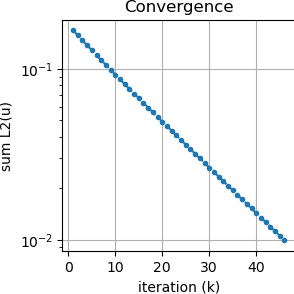
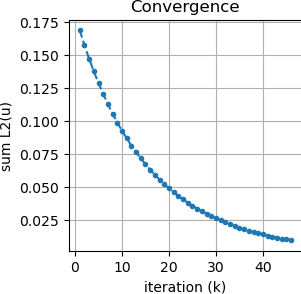
update small mesh smoothing example

diff --git a/geo/examples/mesh_smoothing.py b/geo/examples/mesh_smoothing.py
@@ -143,7 +143,6 @@ fig = plt.figure(figsize=(3.0, 3.0), dpi=100)
 ax = fig.gca()
 
 plt.plot(iteration_hx, L2_hx, ".--")
-plt.yscale("log")
 plt.grid(True)
 ax.set_xlabel("iteration (k)")
 ax.set_ylabel("sum L2(u)")
@@ -151,6 +150,19 @@ ax.set_title("Convergence")
 
 if mesh_dict["serialize"]:
     filename = script_name + "_convergence" + ".png"
+    pathfilename = Path.cwd().joinpath(filename)
+    fig.savefig(pathfilename, bbox_inches="tight", pad_inches=0)
+    print(f"Serialized to {pathfilename}")
+
+plt.plot(iteration_hx, L2_hx, ".--")
+plt.yscale("log")
+plt.grid(True)
+ax.set_xlabel("iteration (k)")
+ax.set_ylabel("sum L2(u)")
+ax.set_title("Convergence")
+
+if mesh_dict["serialize"]:
+    filename = script_name + "_convergence_log" + ".png"
     pathfilename = Path.cwd().joinpath(filename)
     fig.savefig(pathfilename, bbox_inches="tight", pad_inches=0)
     print(f"Serialized to {pathfilename}")

diff --git a/geo/examples/mesh_smoothing.md b/geo/examples/mesh_smoothing.md
@@ -4,4 +4,9 @@ Reference [mesh_smoothing.py](mesh_smoothing.py)
 
 ![mesh_smoothing_iter__opt](fig/mesh_smoothing_iter__opt.gif)
 
-![mesh_smoothing_convergence](fig/mesh_smoothing_convergence.png)
+Linear Scale | Log Scale
+--|--
+![mesh_smoothing_convergence](fig/mesh_smoothing_convergence.png) | ![mesh_smoothing_convergence](fig/mesh_smoothing_convergence_log.png)
+
+* Convergence tolerance: `0.01`
+* Number of iterations: `46`
